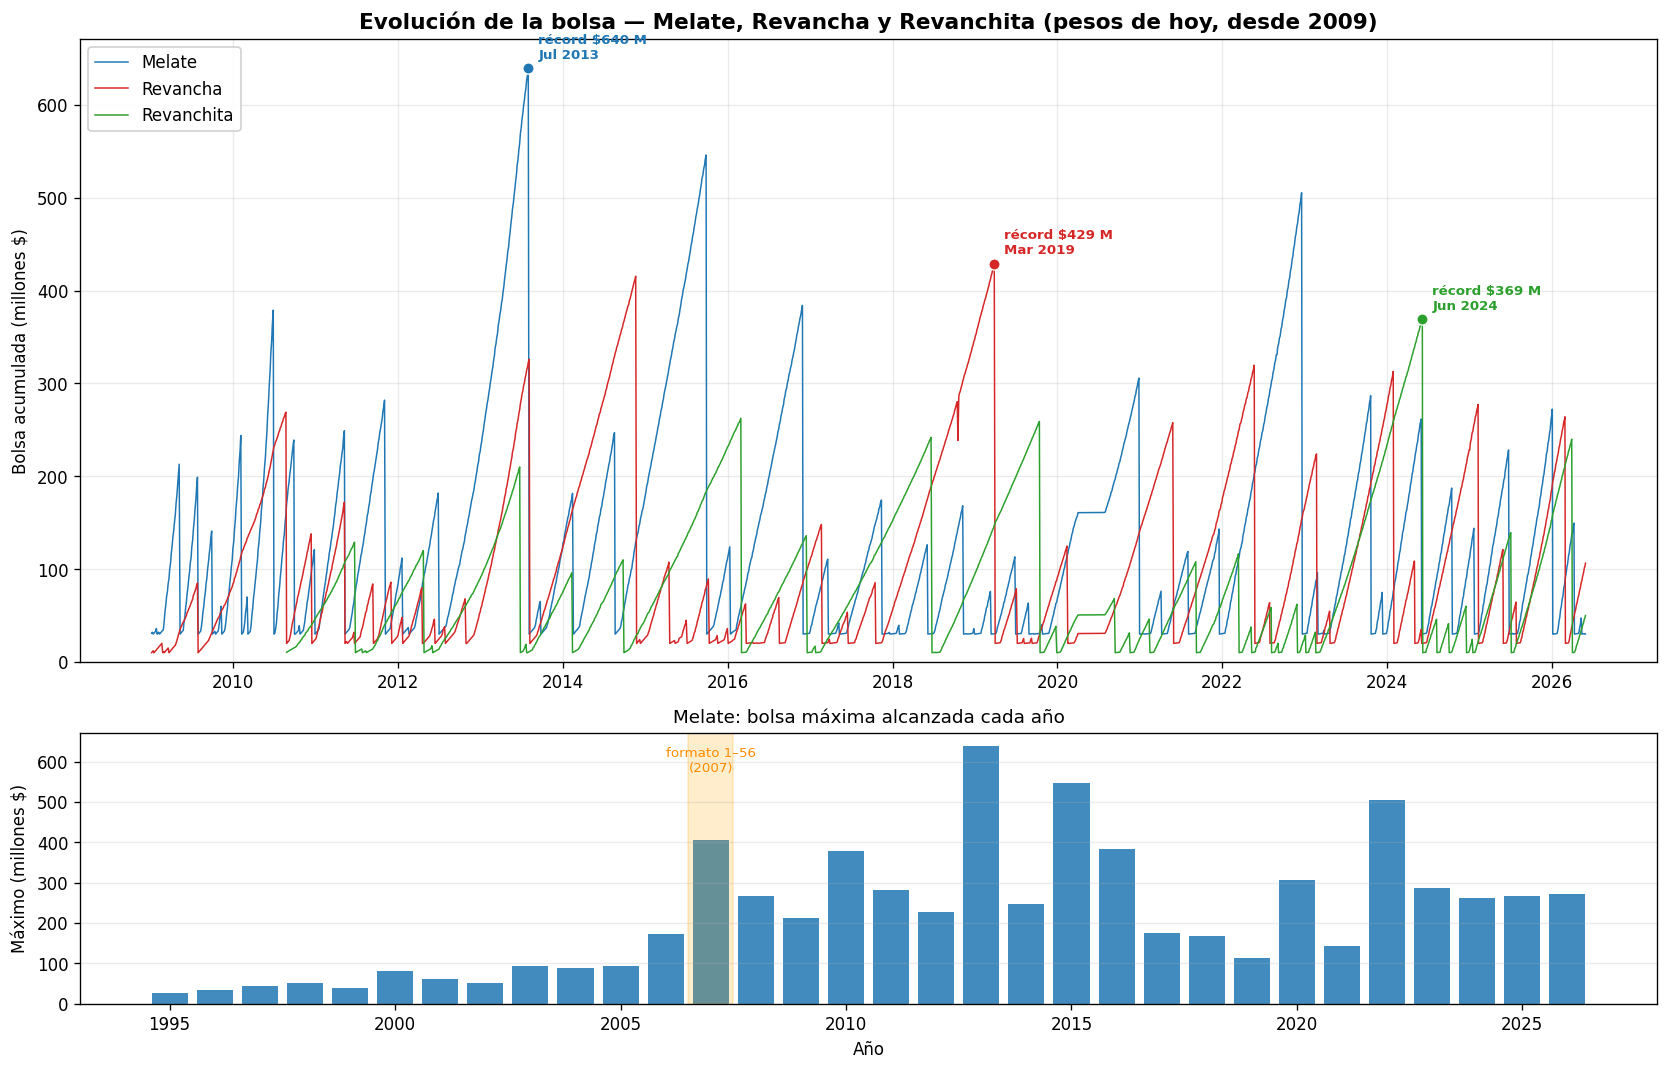
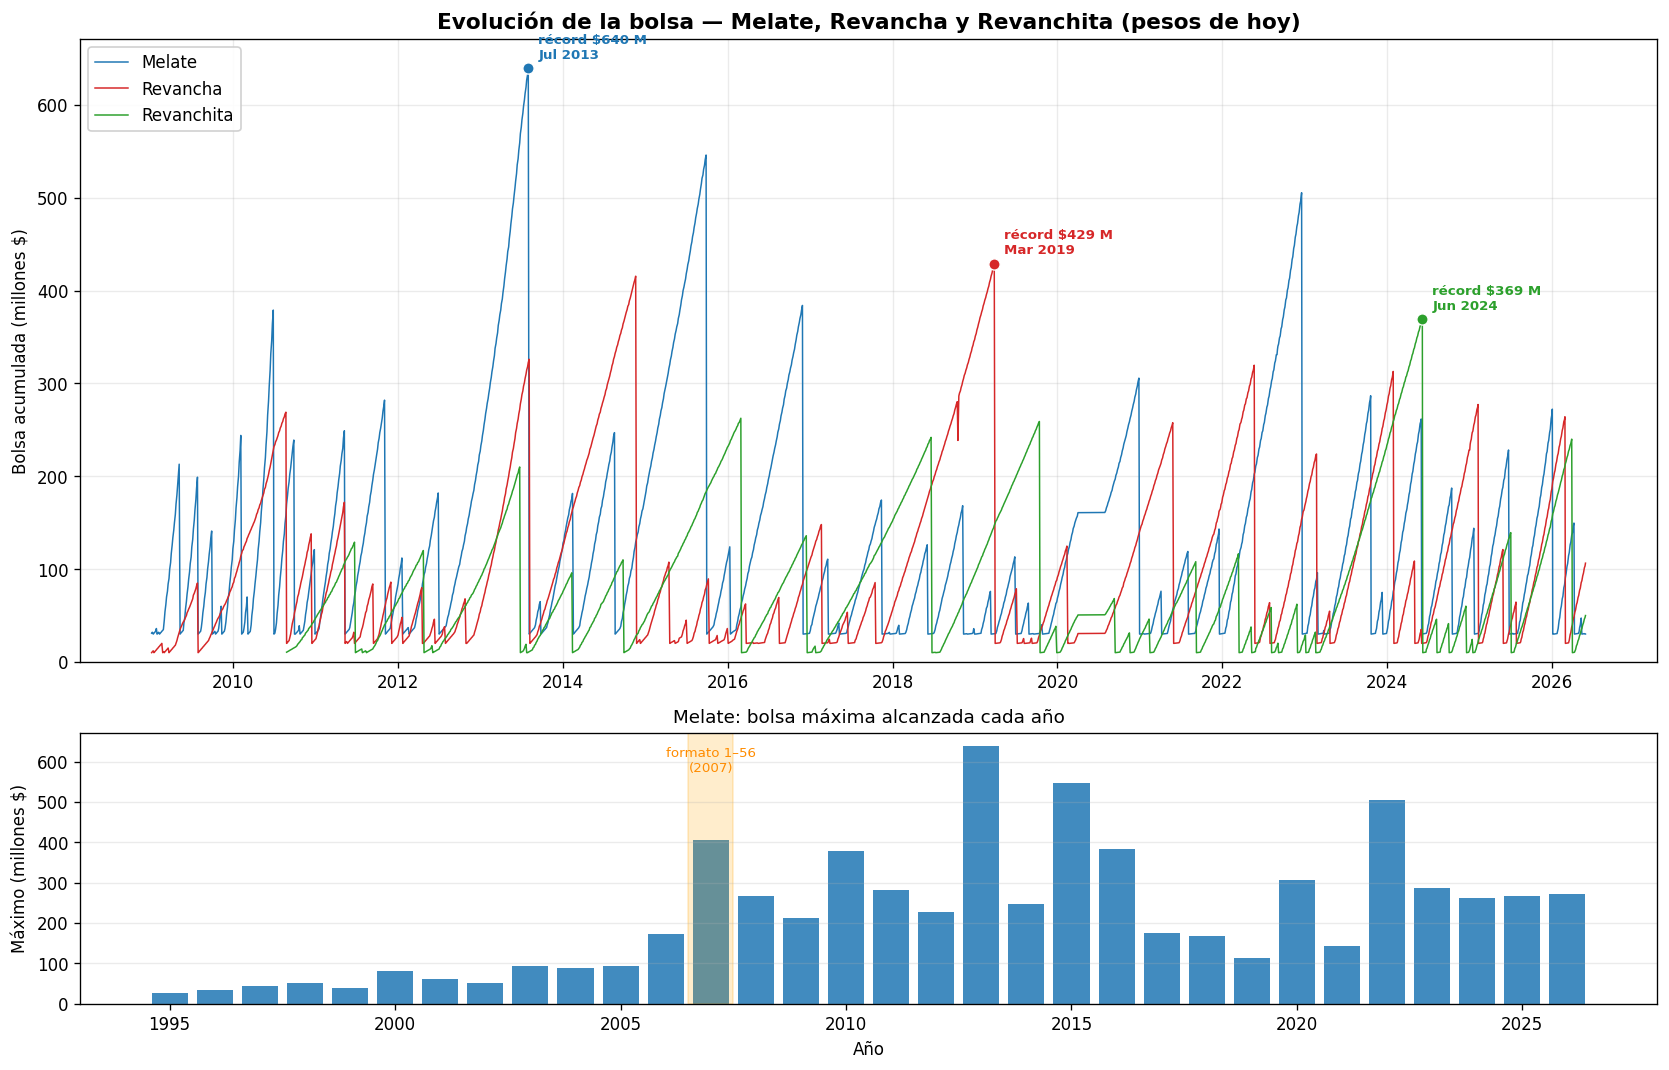
Añade 4 gráficos nuevos: frecuencia de números, sumas, pares/impares y bajos/altos
- generar_graficos() ahora produce 5 PNG en vez de uno solo; --grafico
  recibe un directorio de salida (default: carpeta actual).
- Gráficos de números calculados sobre el formato estable 1–56 (2007+),
  con la línea de valor esperado y el χ² en el de frecuencia.
- README actualizado con la galería de los 5 gráficos.

Changed region(s): [[0.2181, 0.0, 0.8412, 0.0308]]

diff --git a/analisis_melate.py b/analisis_melate.py
@@ -13,7 +13,7 @@ Uso:
     python3 analisis_melate.py --juego Melate   # analiza solo un juego
     python3 analisis_melate.py --dir /ruta/csv  # carpeta donde están los CSV
     python3 analisis_melate.py --desde 2010-01-01   # cambia el inicio del periodo
-    python3 analisis_melate.py --grafico        # además genera evolucion_bolsa.png
+    python3 analisis_melate.py --grafico        # genera los 5 gráficos PNG
     python3 analisis_melate.py --combinaciones 10   # 10 sextetas que respetan los patrones
 
 Requisitos: Python 3.8+, pandas, numpy.
@@ -233,56 +233,68 @@ def seccion_bolsa(df: pd.DataFrame, nombre: str) -> list[str]:
 
 
 # --------------------------------------------------------------------------- #
-# Gráfico de evolución de la bolsa (los tres juegos; requiere matplotlib)
+# Gráficos (requieren matplotlib). Todos comparan los tres juegos.
 # --------------------------------------------------------------------------- #
-def generar_grafico(carpeta: Path, ruta_png: str, desde_serie: str = "2009-01-01") -> None:
-    """Guarda un PNG con la evolución de la bolsa: serie temporal de los tres juegos
-    (patrón acumulación→reinicio) y máximo anual de Melate (tendencia de fondo)."""
+COLORES_JUEGO = {"Melate": "#1f77b4", "Revancha": "#d62728", "Revanchita": "#2ca02c"}
+
+
+def generar_graficos(carpeta: Path, salida_dir: str, desde: str) -> None:
+    """Genera todos los PNG de análisis en `salida_dir`: evolución de la bolsa,
+    frecuencia de cada número, distribución de sumas, y distribuciones de
+    pares/impares y bajos/altos. Requiere matplotlib."""
     try:
         import matplotlib
         matplotlib.use("Agg")
         import matplotlib.pyplot as plt
-        from matplotlib.ticker import FuncFormatter
     except ImportError:
-        print("⚠ matplotlib no está instalado; se omite el gráfico. "
+        print("⚠ matplotlib no está instalado; se omiten los gráficos. "
               "Instálalo con:  pip install matplotlib")
         return
 
-    colores = {"Melate": "#1f77b4", "Revancha": "#d62728", "Revanchita": "#2ca02c"}
+    salida = Path(salida_dir)
+    salida.mkdir(parents=True, exist_ok=True)
+    datos = {nombre: cargar(cfg, carpeta) for nombre, cfg in JUEGOS.items()}
+
+    _g_bolsa(plt, datos, salida / "evolucion_bolsa.png")
+    _g_frecuencia(plt, datos, desde, salida / "frecuencia_numeros.png")
+    _g_sumas(plt, datos, desde, salida / "distribucion_sumas.png")
+    _g_composicion(plt, datos, desde, "pares", salida / "pares_impares.png")
+    _g_composicion(plt, datos, desde, "bajos", salida / "bajos_altos.png")
+    print(f"5 gráficos guardados en: {salida}/  "
+          "(evolucion_bolsa, frecuencia_numeros, distribucion_sumas, pares_impares, bajos_altos)")
+
+
+def _g_bolsa(plt, datos, ruta, desde_serie="2009-01-01") -> None:
+    """Serie temporal de la bolsa (patrón acumulación→reinicio) + máximo anual de Melate."""
+    from matplotlib.ticker import FuncFormatter
     fig, (ax1, ax2) = plt.subplots(2, 1, figsize=(14, 9),
                                    gridspec_kw={"height_ratios": [2.3, 1]})
-
-    # Panel 1: serie temporal de los tres juegos.
-    cache = {}
-    for nombre, cfg in JUEGOS.items():
-        df = cargar(cfg, carpeta).dropna(subset=["BOLSA_N"])
-        cache[nombre] = df
-        if df.empty:
+    for nombre, df in datos.items():
+        d = df.dropna(subset=["BOLSA_N"])
+        if d.empty:
             continue
-        color = colores.get(nombre)
-        d = df[df["FECHA"] >= pd.Timestamp(desde_serie)]
-        ax1.plot(d["FECHA"], d["BOLSA_N"] / MILLON, color=color, lw=0.9, label=nombre)
-        rec = df.loc[df["BOLSA_N"].idxmax()]
+        color = COLORES_JUEGO.get(nombre)
+        dd = d[d["FECHA"] >= pd.Timestamp(desde_serie)]
+        ax1.plot(dd["FECHA"], dd["BOLSA_N"] / MILLON, color=color, lw=0.9, label=nombre)
+        rec = d.loc[d["BOLSA_N"].idxmax()]
         ax1.scatter([rec["FECHA"]], [rec["BOLSA_N"] / MILLON], color=color, s=45,
                     zorder=5, edgecolor="white", linewidth=0.8)
         ax1.annotate(f"récord ${rec['BOLSA_N'] / MILLON:,.0f} M\n{rec['FECHA']:%b %Y}",
                      (rec["FECHA"], rec["BOLSA_N"] / MILLON), textcoords="offset points",
                      xytext=(6, 6), fontsize=8, color=color, fontweight="bold")
-
-    ax1.set_title(f"Evolución de la bolsa — Melate, Revancha y Revanchita "
-                  f"(pesos de hoy, desde {desde_serie[:4]})", fontsize=13, fontweight="bold")
+    ax1.set_title("Evolución de la bolsa — Melate, Revancha y Revanchita (pesos de hoy)",
+                  fontsize=13, fontweight="bold")
     ax1.set_ylabel("Bolsa acumulada (millones $)")
     ax1.legend(loc="upper left", framealpha=0.9)
     ax1.grid(alpha=0.25)
     ax1.yaxis.set_major_formatter(FuncFormatter(lambda x, _: f"{x:,.0f}"))
     ax1.set_ylim(bottom=0)
-
-    # Panel 2: máximo anual de Melate (deja ver la tendencia que los dientes esconden).
-    dfm = cache.get("Melate")
-    if dfm is not None and not dfm.empty:
+    dfm = datos.get("Melate")
+    if dfm is not None:
+        dfm = dfm.dropna(subset=["BOLSA_N"])
         maxan = (dfm.groupby("AÑO")["BOLSA_N"].max() / MILLON)
         maxan = maxan[maxan.index >= 1995]
-        ax2.bar(maxan.index, maxan.values, color=colores["Melate"], alpha=0.85)
+        ax2.bar(maxan.index, maxan.values, color=COLORES_JUEGO["Melate"], alpha=0.85)
         ax2.axvspan(2006.5, 2007.5, color="orange", alpha=0.2)
         ax2.annotate("formato 1–56\n(2007)", (2007, maxan.max() * 0.9), fontsize=8,
                      ha="center", color="darkorange")
@@ -290,11 +302,101 @@ def generar_grafico(carpeta: Path, ruta_png: str, desde_serie: str = "2009-01-01
         ax2.set_ylabel("Máximo (millones $)")
         ax2.set_xlabel("Año")
         ax2.grid(alpha=0.25, axis="y")
-
     fig.tight_layout()
-    fig.savefig(ruta_png, dpi=120, bbox_inches="tight")
+    fig.savefig(ruta, dpi=120, bbox_inches="tight")
     plt.close(fig)
-    print(f"Gráfico guardado en: {ruta_png}")
+
+
+def _g_frecuencia(plt, datos, desde, ruta) -> None:
+    """Un panel por juego: barras con las veces que ha salido cada número (1–56),
+    con la línea del valor esperado por azar y el χ² en el título."""
+    fig, axes = plt.subplots(len(datos), 1, figsize=(14, 3.2 * len(datos)), sharex=True)
+    axes = np.atleast_1d(axes)
+    for ax, (nombre, df) in zip(axes, datos.items()):
+        cols = JUEGOS[nombre]["nums"]
+        sub = df[df["FECHA"] >= pd.Timestamp(desde)]
+        c = Counter(sub[cols].to_numpy().ravel())
+        freq = [c.get(i, 0) for i in range(1, N_BOMBO + 1)]
+        n = len(sub)
+        esperado = n * K_SORTEO / N_BOMBO if n else 0
+        chi2 = sum((f - esperado) ** 2 / esperado for f in freq) if esperado else 0
+        ax.bar(range(1, N_BOMBO + 1), freq, color=COLORES_JUEGO.get(nombre), alpha=0.85)
+        if esperado:
+            ax.axhline(esperado, color="black", ls="--", lw=1)
+            ax.annotate(f"esperado por azar ≈ {esperado:.0f}", (N_BOMBO, esperado),
+                        fontsize=8, va="bottom", ha="right")
+        veredicto = "compatible con azar" if chi2 < CHI2_CRIT_55 else "posible sesgo"
+        ax.set_title(f"{nombre} — frecuencia de cada número ({n:,} sorteos desde {desde[:4]} · "
+                     f"χ²={chi2:.0f} → {veredicto})", fontsize=11)
+        ax.set_ylabel("Veces que salió")
+        ax.set_xlim(0.5, N_BOMBO + 0.5)
+        ax.grid(alpha=0.2, axis="y")
+    axes[-1].set_xlabel("Número")
+    axes[-1].set_xticks(range(5, N_BOMBO + 1, 5))
+    fig.suptitle("Distribución de frecuencia de los números (formato estable 1–56)",
+                 fontsize=13, fontweight="bold")
+    fig.tight_layout()
+    fig.savefig(ruta, dpi=120, bbox_inches="tight")
+    plt.close(fig)
+
+
+def _g_sumas(plt, datos, desde, ruta) -> None:
+    """Histograma de la suma de los números ganadores por sorteo (los tres juegos)."""
+    fig, ax = plt.subplots(figsize=(12, 6))
+    bins = range(40, 305, 8)
+    medias = []
+    for nombre, df in datos.items():
+        cols = JUEGOS[nombre]["nums"]
+        sumas = df[df["FECHA"] >= pd.Timestamp(desde)][cols].to_numpy().sum(axis=1)
+        if not len(sumas):
+            continue
+        ax.hist(sumas, bins=bins, histtype="step", lw=1.8, color=COLORES_JUEGO.get(nombre),
+                label=f"{nombre} (media {sumas.mean():.0f})")
+        medias.append(sumas.mean())
+    if medias:
+        ax.axvline(float(np.mean(medias)), color="gray", ls="--", lw=1,
+                   label=f"media ≈ {np.mean(medias):.0f}")
+    ax.set_title(f"Distribución de la suma de los {K_SORTEO} números ganadores (desde {desde[:4]})",
+                 fontsize=13, fontweight="bold")
+    ax.set_xlabel(f"Suma de los {K_SORTEO} números")
+    ax.set_ylabel("Número de sorteos")
+    ax.legend()
+    ax.grid(alpha=0.25)
+    fig.tight_layout()
+    fig.savefig(ruta, dpi=120, bbox_inches="tight")
+    plt.close(fig)
+
+
+def _g_composicion(plt, datos, desde, modo, ruta) -> None:
+    """Barras agrupadas: cuántas veces (en %) salieron k pares (o k bajos) por sorteo."""
+    cats = list(range(K_SORTEO + 1))           # 0..6
+    juegos = list(datos.keys())
+    ancho = 0.8 / len(juegos)
+    fig, ax = plt.subplots(figsize=(11, 6))
+    for i, nombre in enumerate(juegos):
+        cols = JUEGOS[nombre]["nums"]
+        mat = datos[nombre][datos[nombre]["FECHA"] >= pd.Timestamp(desde)][cols].to_numpy()
+        if not len(mat):
+            continue
+        conteo = (mat % 2 == 0).sum(axis=1) if modo == "pares" else (mat <= N_BOMBO // 2).sum(axis=1)
+        pct = [100 * np.mean(conteo == k) for k in cats]
+        x = [c + (i - (len(juegos) - 1) / 2) * ancho for c in cats]
+        ax.bar(x, pct, width=ancho, color=COLORES_JUEGO.get(nombre), label=nombre, alpha=0.9)
+    if modo == "pares":
+        ax.set_title(f"¿Cuántos PARES salen por sorteo? (de {K_SORTEO} números, desde {desde[:4]})",
+                     fontsize=13, fontweight="bold")
+        ax.set_xlabel("Cantidad de números pares en el sorteo")
+    else:
+        ax.set_title(f"¿Cuántos BAJOS (1–{N_BOMBO // 2}) salen por sorteo? (desde {desde[:4]})",
+                     fontsize=13, fontweight="bold")
+        ax.set_xlabel(f"Cantidad de números bajos (1–{N_BOMBO // 2}) en el sorteo")
+    ax.set_ylabel("% de sorteos")
+    ax.set_xticks(cats)
+    ax.legend()
+    ax.grid(alpha=0.25, axis="y")
+    fig.tight_layout()
+    fig.savefig(ruta, dpi=120, bbox_inches="tight")
+    plt.close(fig)
 
 
 # --------------------------------------------------------------------------- #
@@ -407,10 +509,11 @@ def main() -> None:
     ap.add_argument("--desde", default=DESDE_DEFAULT,
                     help=f"Fecha inicial (YYYY-MM-DD) para frecuencias (default {DESDE_DEFAULT}).")
     ap.add_argument("--juego", help="Analizar solo un juego: Melate | Revancha | Revanchita.")
-    ap.add_argument("--grafico", nargs="?", const="evolucion_bolsa.png", default=None,
-                    metavar="ARCHIVO.png",
-                    help="Genera un PNG con la evolución de la bolsa (los 3 juegos siempre). "
-                         "Default: evolucion_bolsa.png. Requiere matplotlib.")
+    ap.add_argument("--grafico", "--graficos", nargs="?", const=".", default=None,
+                    metavar="DIR", dest="grafico",
+                    help="Genera los 5 gráficos PNG (bolsa, frecuencia de números, sumas, "
+                         "pares/impares, bajos/altos) en el directorio indicado (default: "
+                         "carpeta actual). Requiere matplotlib.")
     ap.add_argument("--combinaciones", type=int, metavar="N",
                     help="Genera N sextetas que respetan los patrones del histórico "
                          "(suma, pares/impares, bajos/altos). NO mejora la probabilidad de ganar.")
@@ -449,7 +552,7 @@ def main() -> None:
             print(reporte)
 
     if args.grafico:
-        generar_grafico(carpeta, args.grafico)
+        generar_graficos(carpeta, args.grafico, args.desde)
 
 
 if __name__ == "__main__":

diff --git a/README.md b/README.md
@@ -15,7 +15,7 @@ script en Python reproducible que genera reportes, gráficos y combinaciones.
 | `analisis_melate.py` | Script principal: reporte + gráfico + generador de combinaciones |
 | `Melate.csv` · `Revancha.csv` · `Revanchita.csv` | Histórico de sorteos (1984–2026) |
 | `Reporte_Analisis_Melate_2026-05-31.md` | Reporte de ejemplo generado por el script |
-| `evolucion_bolsa.png` | Gráfico de la evolución de la bolsa |
+| `*.png` | 5 gráficos: evolución de la bolsa, frecuencia de números, distribución de sumas, pares/impares y bajos/altos |
 | `requirements.txt` | Dependencias |
 
 ## Instalación
@@ -32,7 +32,7 @@ Dependencias: `pandas` y `numpy` (obligatorias); `matplotlib` (para `--grafico`)
 ```bash
 python3 analisis_melate.py                      # reporte completo en pantalla
 python3 analisis_melate.py -o reporte.md        # guarda el reporte en Markdown
-python3 analisis_melate.py --grafico            # además genera evolucion_bolsa.png
+python3 analisis_melate.py --grafico            # genera los 5 gráficos PNG
 python3 analisis_melate.py --combinaciones 10   # 10 sextetas que respetan los patrones
 python3 analisis_melate.py --juego Revanchita   # analiza solo un juego
 python3 analisis_melate.py --help               # todas las opciones
@@ -57,7 +57,28 @@ los sorteos nuevos y volver a ejecutarlo.
 3. **Récord de bolsa real:** $639.5 millones (Melate, julio 2013), corregido por la
    reconversión monetaria de 1993.
 
+## Gráficos
+
+El comando `python3 analisis_melate.py --grafico` genera estos cinco gráficos (los de
+números, sobre el formato estable 1–56 desde 2007):
+
+**Evolución de la bolsa**
+
 ![Evolución de la bolsa](evolucion_bolsa.png)
+
+**Frecuencia de cada número** — todas las barras oscilan alrededor del valor esperado por
+azar; el χ² confirma que no hay sesgo.
+
+![Frecuencia de los números](frecuencia_numeros.png)
+
+**Distribución de la suma de los 6 números** — campana centrada en ~170.
+
+![Distribución de sumas](distribucion_sumas.png)
+
+**Pares/impares y bajos/altos por sorteo** — ambos se concentran en el reparto 3–3.
+
+![Pares e impares](pares_impares.png)
+![Bajos y altos](bajos_altos.png)
 
 ## Notas sobre los datos
 
